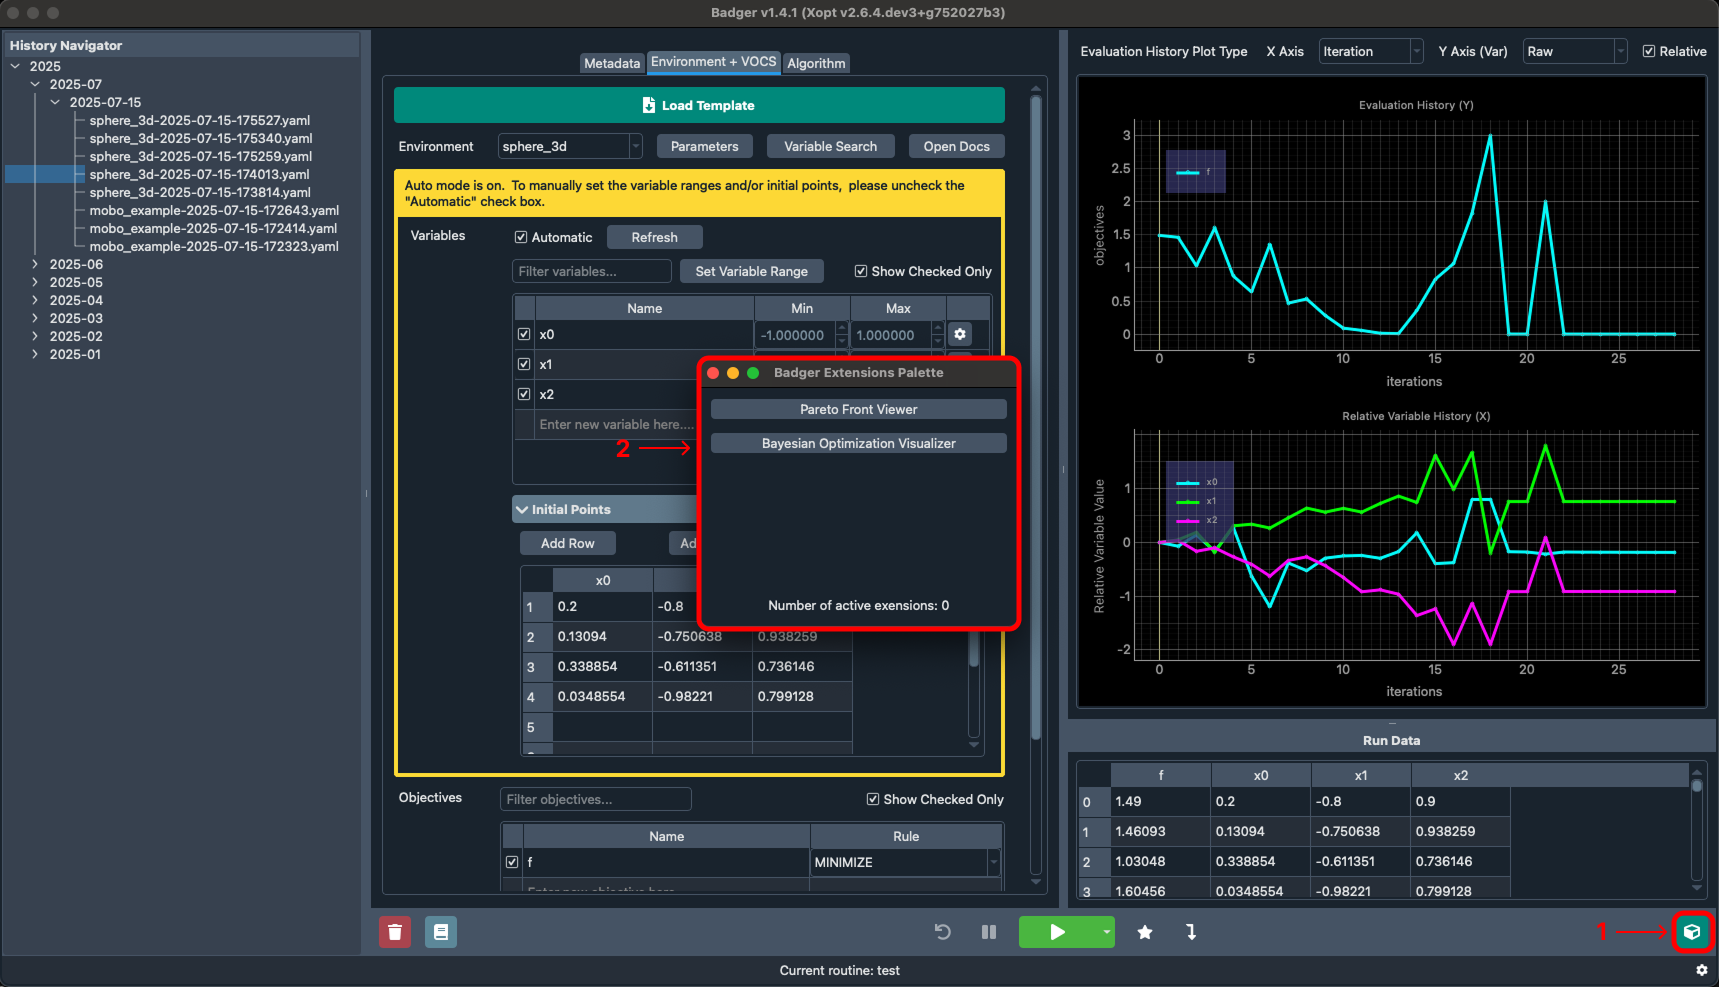
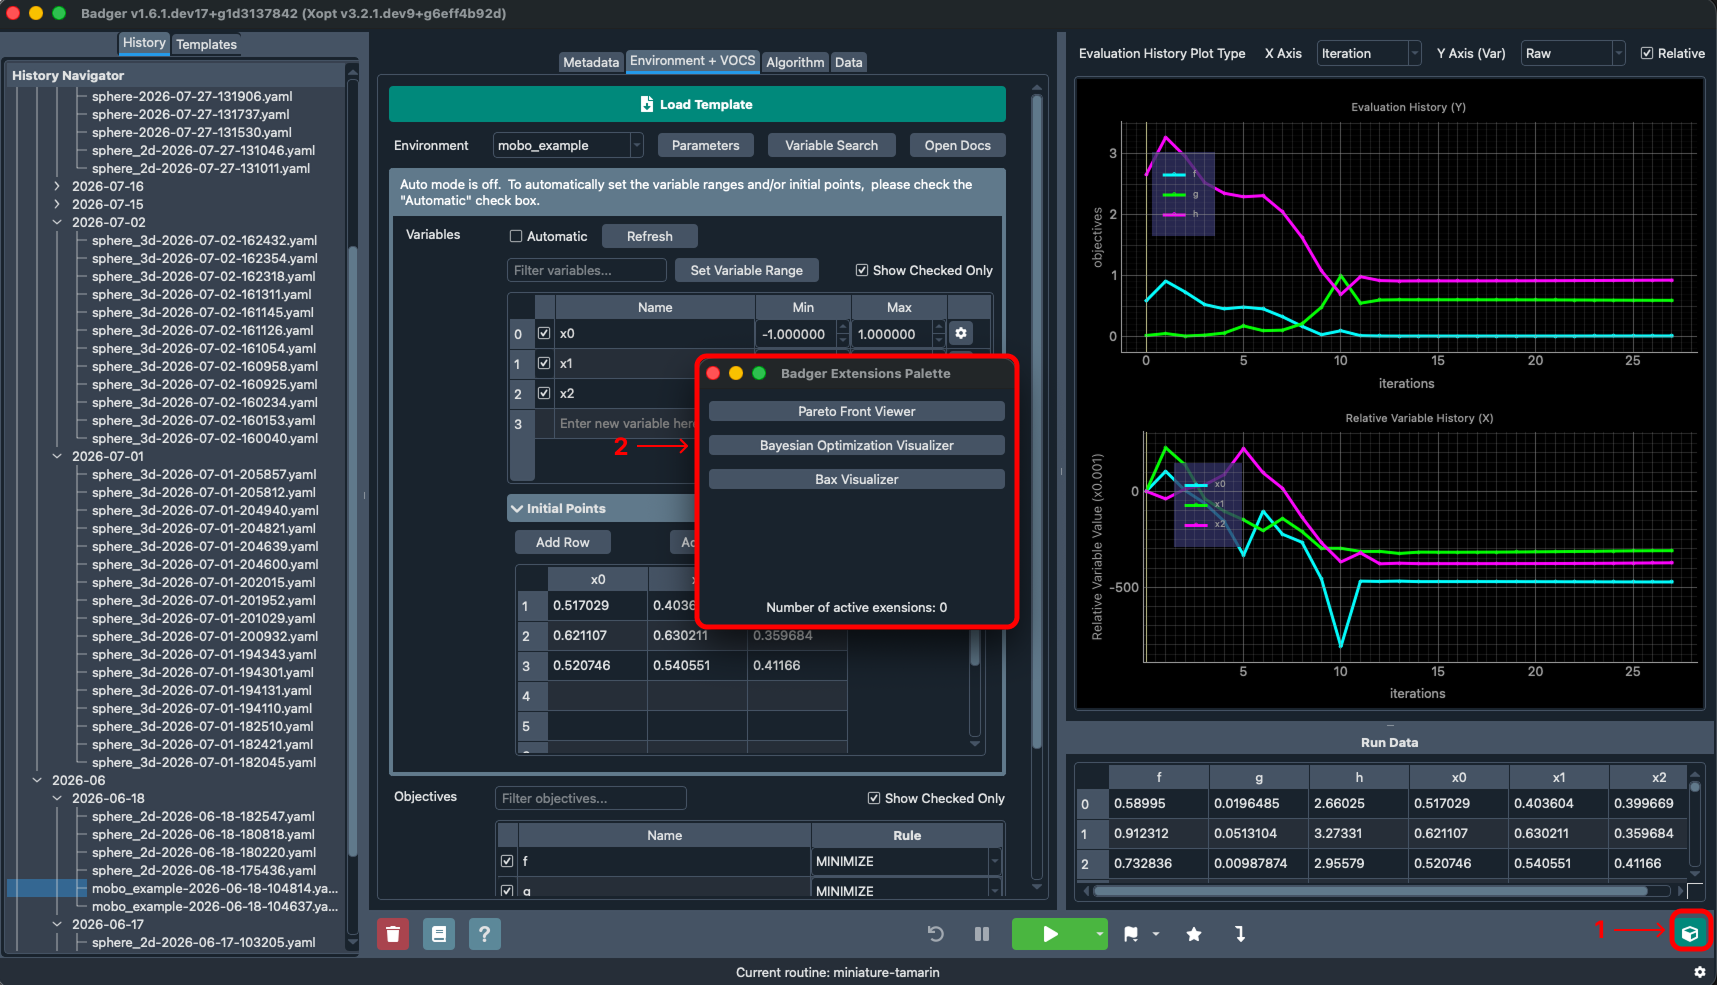
Added a bax extension guide with screenshots for the documentation

Changed region(s): [[0.0, 0.0, 1.0, 1.0], [0.5556, 0.0609, 0.5865, 0.0914], [0.3704, 0.3046, 0.4013, 0.335]]

diff --git a/documentation/docs/extensions/bax-extension.md b/documentation/docs/extensions/bax-extension.md
@@ -1,0 +1,112 @@
+---
+sidebar_position: 3
+---
+
+# BAX visualizer
+
+## Overview
+
+The BAX visualizer extension allows for an interactive graphical interpretation of the virtual measurement generated during a Bayesian Algorithm Execution (BAX) optimization run. Rather than modeling an explicit objective function, BAX builds a surrogate model from observations and executes a virtual algorithm on that model to decide where to sample next. The visualizer displays this virtual objective, its underlying samples, and how the algorithm converges over the course of the run.
+
+## Usage
+
+The extension can be used both statically and dynamically during or after a Badger optimization run. When used during a Badger optimization, the plots will update at a set interval in real time according to the variables and plot options set. Any plot options, reference points, and variables are saved throughout the use of that instance of the BAX visualizer extension and are lost when the window is closed.
+
+## Constraints
+
+The BAX visualizer extension is only available when conducting a Badger optimization that satisfies all of the following conditions:
+
+- The optimization uses a Bayesian Generator that performs Bayesian Algorithm Execution (a `BayesianGenerator`).
+
+- The routine has **no objectives** defined. BAX uses observations to visualize the optimization process, so it cannot be used with routines that have objectives defined. If objectives are present, remove them from the routine and try again.
+
+- A routine is currently running or selected in the main Badger interface. If no routine is active, the extension will prompt you to start a routine first.
+
+The controls shown within the extension additionally depend on which BAX algorithm the generator is configured to use. The supported algorithms are `grid_optimize`, `pathwise_minimize_emittance`, and `pathwise_solenoid_alignment`.
+
+## Tutorial
+
+### Step 1: Start Badger optimization
+
+First step to use the BAX visualizer is to use the Badger UI to run through an optimization using a compatible BAX algorithm.
+
+Once you have converged on a solution or have stopped the optimization after a certain number of iterations, you can visualize the virtual measurement and its convergence by opening the BAX visualizer extension.
+
+### Step 2: How to access the extension
+
+![extension palette](/img/extensions/extension-palette.png)
+
+Description:
+
+**1** - Access the Badger extensions palette by clicking the icon in the bottom right
+
+**2** - The Badger extensions palette contains all extensions included by default with Badger
+    Note: not all extensions are applicable to every optimization configuration
+
+**3** - Access the BAX visualizer extension by clicking the corresponding option within the Badger extensions palette
+
+### Step 3: BAX visualizer controls
+
+![bax visualizer window](/img/extensions/bax/bax-window.png)
+
+Description:
+
+**1** - Change the variables that are being plotted by the X and Y axes within the extension using the "Variable 1" and "Variable 2" selectors.
+
+**2** - By default the extension will plot two variables at a time. If you wish to only plot a single variable, you can uncheck the "Include Variable 2" option and the "Variable 2" selector will be disabled.
+
+**3** - At the top of the window you can toggle between the two different plot views: Virtual Objective and Convergence (see explanation below)
+
+**4** - The reference point table lists every variable in the routine alongside an editable reference value. This value is used to fix the input space for any axes that are not currently being visualized. The variables selected for the X and Y axes are grayed out and cannot be edited.
+
+- **Note:** In >2D spaces the reference point determines the slice of the input space that is displayed for the axes that are not plotted.
+
+**5** - The "Set Latest" button will populate the reference point table with the most recently measured values from the optimization run, and the plots will update accordingly. The latest reference points are also shown in text below the button.
+
+**6** - You can control the resolution and sampling of the virtual measurement with the following options:
+
+- **Number of Grid Points** - the number of mesh points used to visualize the surrogate model value. A higher number of points produces a higher resolution visualization, but at the cost of increased computation time (range: 10-100).
+
+- **Number of Samples** - the number of virtual measurement samples drawn from the model at each grid point. A higher number of samples produces a smoother estimate at the cost of increased computation time (range: 10-1000).
+
+Depending on the BAX algorithm in use, additional plot options let you toggle which results are displayed. These options appear only when applicable to the current algorithm:
+
+- **Show Objective** - toggles the visualization of the virtual objective function (`grid_optimize` algorithm).
+
+- **Show Emittance X / Show Emittance Y** - toggle the X and Y beam emittance metrics (`pathwise_minimize_emittance` algorithm).
+
+- **Show Bmag X / Show Bmag Y** - toggle the X and Y beam mismatch (Bmag) components (`pathwise_minimize_emittance` algorithm).
+
+- **Show Alignment X / Show Alignment Y** - toggle the X and Y solenoid misalignment metrics (`pathwise_solenoid_alignment` algorithm).
+
+**7** - The BAX visualizer extension will automatically update the charts reactively upon any changes to the controls above. If at any point you believe the plots are out of sync, you can forcefully rebuild them using the update button.
+
+**8** - The charts within the extension are interactive. Each plot includes the Matplotlib navigation toolbar, which allows you to pan, zoom, step back and forward through view states, reset to the home view, adjust the plot layout, and export the current plot as an image. When a chart is larger than the viewport it can be scrolled vertically.
+
+### Charts explanation
+
+The BAX visualizer organizes its charts into two tabs.
+
+#### Virtual objective
+
+![bax one variable visualization](/img/extensions/bax/bax-one-variable.png)
+
+The "Virtual Objective" tab displays the surrogate model and the virtual measurement produced by the BAX algorithm.
+
+- When plotting two variables, the chart shows the model predictions as contours across the selected X and Y axes, overlaid with the virtual measurement samples drawn from the model. The real observations used to train the model are shown as markers, and the current reference point is indicated on the plot.
+
+- When only a single variable is selected (with "Include Variable 2" unchecked), the same information is displayed as a one dimensional plot of the surrogate value against the selected variable.
+
+The display of results within this tab is controlled by the algorithm-specific plot options described in Step 3 (for example, the objective, emittance, Bmag, or alignment metrics).
+
+
+
+#### Convergence
+
+![bax convergence tab](/img/extensions/bax/bax-convergence.png)
+
+The "Convergence" tab contains two stacked plots that show how the BAX algorithm progresses across iterations of the optimization run.
+
+- The **objective convergence** plot shows how the inferred objective value evolves as the optimization progresses.
+
+- The **input convergence** plot shows how the recommended input values evolve as the optimization progresses.
